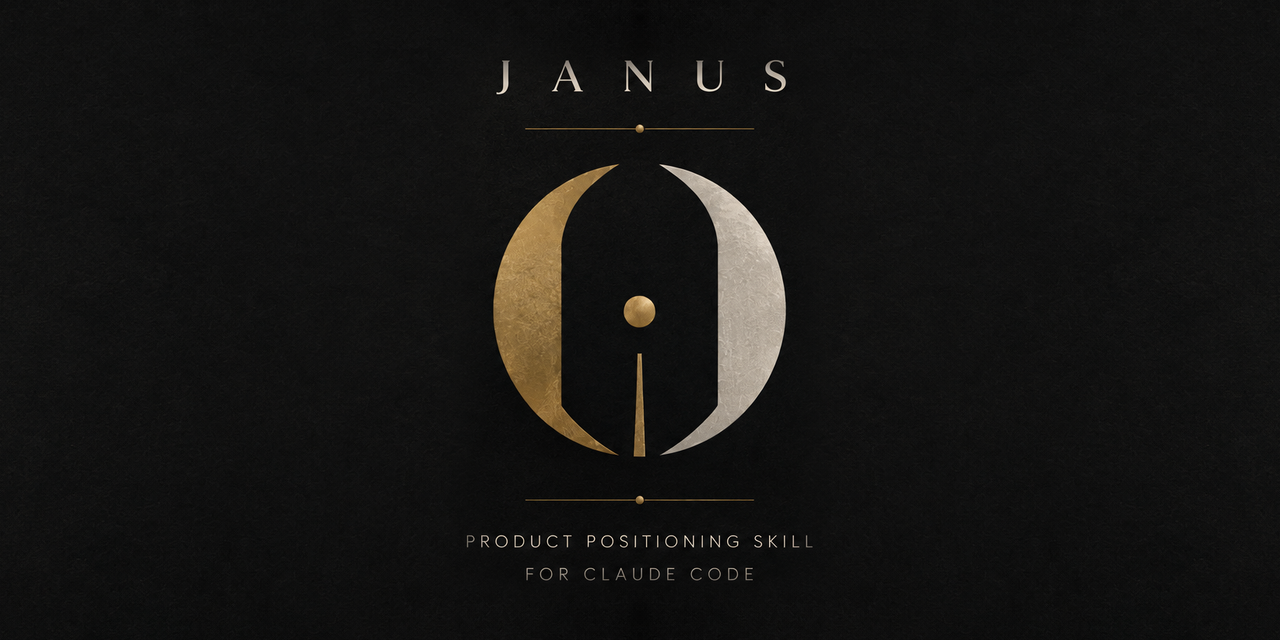
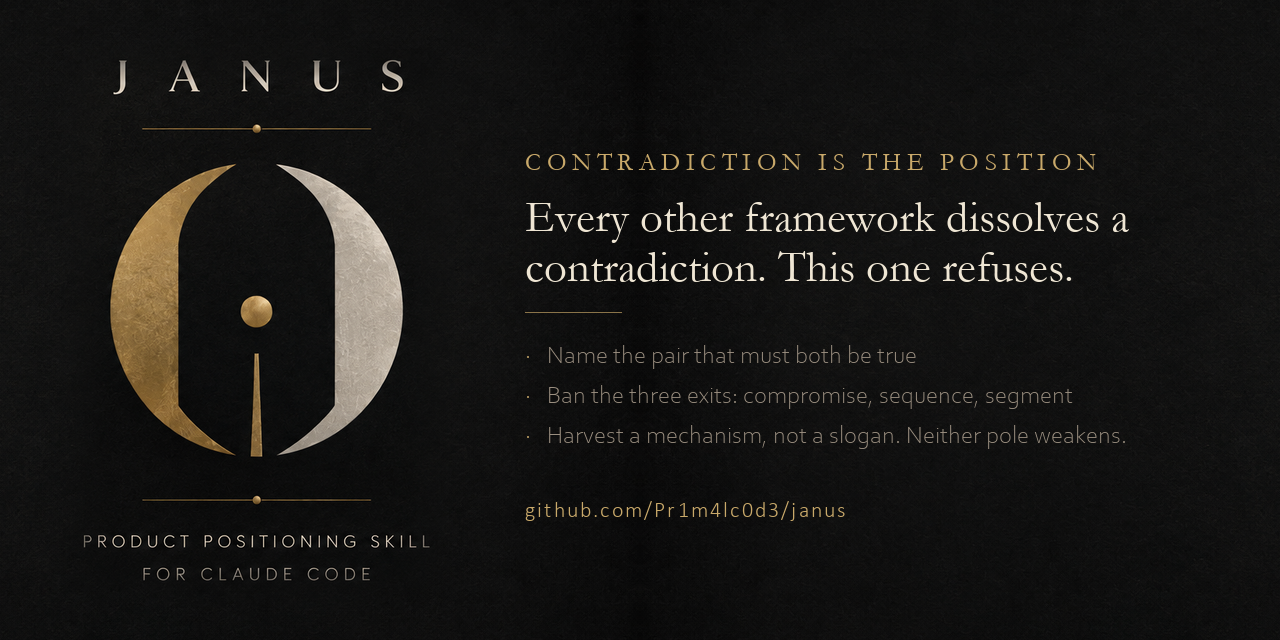
The OG stops centring the mark and spends the right side on copy
The source artwork is left-weighted on purpose. Centring the lockup threw away
the one place the card could say what the skill does.

Builder now places the lockup left and sets a kicker, headline, bullets and
footer in the cleared right column. The feathered bleed mask is unchanged; it
was already the right way to join the two textures.

Bullets come from steps 1, 2 and 4 of janus/SKILL.md. An earlier draft said
"what a rival must give up", which is Idea Forge Pro's moat gate, not this
skill, and Janus is explicitly not a pipeline stage.

Shared with the peitho repo. Same file in both; change one, change the other.

diff --git a/og/build-og.py b/og/build-og.py
@@ -1,44 +1,158 @@
 """Build the GitHub social-preview card.
 
 Recomposes the source artwork (3:2, lockup in the left third) onto GitHub's
-1280x640 social-preview ratio, centred, with the paper texture carried across
-the full frame so there is no seam.
+1280x640 social-preview ratio. The lockup stays LEFT, where the artwork puts it,
+and the empty right side carries copy explaining the skill. That space is the
+reason the artwork is left-weighted; it is not padding.
 
-Run from this folder:  python build-og.py
+The paper texture is carried across the full frame and the lockup is pasted
+through a feathered mask with bleed, so the two textures meet invisibly.
+
+Canonical implementation. The copy in each skill repo must stay identical; if you
+change one, change the other.
+
+Run from this folder:
+    python build-og.py --config peitho
+    python build-og.py --config janus
 """
+from __future__ import annotations
+
+import argparse
 from pathlib import Path
 
-from PIL import Image, ImageDraw, ImageFilter
+from PIL import Image, ImageDraw, ImageFilter, ImageFont
 
 HERE = Path(__file__).parent
-SRC = HERE / "source-artwork.png"
-OUT = HERE / "janus-og.png"
-W, H = 1280, 640                      # GitHub social-preview size
+W, H = 1280, 640                       # GitHub social-preview size
 
-im = Image.open(SRC).convert("RGB")
+FONTS = Path("C:/Windows/Fonts")
+F_DISPLAY = FONTS / "GARA.TTF"         # Garamond, for kicker and headline
+F_TEXT = FONTS / "corbell.ttf"         # Corbel Light, for the bullets
+F_MONOISH = FONTS / "calibril.ttf"     # Calibri Light: lining figures, so a URL sits on the baseline
 
-# ---- 1. canvas: real paper texture from his own empty right side, mirrored to 2:1
-tex = im.crop((896, 192, 1536, 832))                  # 640x640 of pure background
-canvas = Image.new("RGB", (W, H))
-canvas.paste(tex, (0, 0))
-canvas.paste(tex.transpose(Image.FLIP_LEFT_RIGHT), (640, 0))
+GOLD, CREAM, MUTED, RULE = "#C9A96A", "#EFE6D4", "#9C9081", "#8A7449"
 
-# ---- 2. his lockup, with bleed so the feather has texture to fade into
-BLEED = 40
-box = (134 - BLEED, 175 - BLEED, 577 + BLEED, 843 + BLEED)
-block = im.crop(box)
+# Per-skill config. box is the lockup's trimmed bounding box in the source
+# artwork, as (x0, y0, x1, y1). Find it with:
+#   magick source-artwork.png -fuzz 15% -trim -format '%wx%h+%X+%Y' info:
+CONFIGS = {
+    "peitho": dict(
+        out="peitho-og.png",
+        box=(107, 105, 729, 920),
+        kicker="PULL IS PARTICIPATION",
+        headline="A reader keeps reading because you gave them something to do.",
+        bullets=[
+            "Visible gaps, not withheld endings",
+            "Openings that earn the next paragraph",
+            "Every claim sourced. No invented detail.",
+        ],
+        footer="github.com/Pr1m4lc0d3/peitho",
+    ),
+    "janus": dict(
+        out="janus-og.png",
+        box=(134, 175, 577, 843),
+        kicker="CONTRADICTION IS THE POSITION",
+        headline="Every other framework dissolves a contradiction. This one refuses.",
+        # Straight from janus/SKILL.md steps 1, 2 and 4. Do NOT write "what a
+        # rival must give up" here: that is Idea Forge Pro's moat gate, a
+        # different thing, and Janus is explicitly not a pipeline stage.
+        bullets=[
+            "Name the pair that must both be true",
+            "Ban the three exits: compromise, sequence, segment",
+            "Harvest a mechanism, not a slogan. Neither pole weakens.",
+        ],
+        footer="github.com/Pr1m4lc0d3/janus",
+    ),
+}
 
-CONTENT_H = 520                                        # target height of the artwork itself
-scale = CONTENT_H / (843 - 175)
-bw, bh = (round(block.width * scale), round(block.height * scale))
-block = block.resize((bw, bh), Image.LANCZOS)
 
-# ---- 3. feathered alpha so the two textures meet invisibly
-f = round(BLEED * scale)
-mask = Image.new("L", (bw, bh), 0)
-ImageDraw.Draw(mask).rectangle([f, f, bw - f, bh - f], fill=255)
-mask = mask.filter(ImageFilter.GaussianBlur(f * 0.55))
+def tracked(draw, xy, text, font, fill, tracking=0.0):
+    """Draw text with letterspacing. Returns the advance width."""
+    x, y = xy
+    for ch in text:
+        draw.text((x, y), ch, font=font, fill=fill)
+        x += font.getlength(ch) + tracking
+    return x - xy[0]
 
-canvas.paste(block, ((W - bw) // 2, (H - bh) // 2), mask)
-canvas.save(OUT, optimize=True)
-print("wrote", OUT, canvas.size)
+
+def wrap(text, font, max_w):
+    lines, words, line = [], text.split(), ""
+    for word in words:
+        trial = f"{line} {word}".strip()
+        if font.getlength(trial) <= max_w or not line:
+            line = trial
+        else:
+            lines.append(line)
+            line = word
+    if line:
+        lines.append(line)
+    return lines
+
+
+def build(cfg, src_path):
+    im = Image.open(src_path).convert("RGB")
+
+    # 1. Canvas: real paper texture from the artwork's own empty right side,
+    #    mirrored to fill 2:1 without repeating a visible edge.
+    tex = im.crop((896, 192, 1536, 832))
+    canvas = Image.new("RGB", (W, H))
+    canvas.paste(tex, (0, 0))
+    canvas.paste(tex.transpose(Image.FLIP_LEFT_RIGHT), (640, 0))
+
+    # 2. The lockup, cropped with bleed so the feather has texture to fade into.
+    BLEED, CONTENT_H = 40, 520
+    x0, y0, x1, y1 = cfg["box"]
+    block = im.crop((x0 - BLEED, y0 - BLEED, x1 + BLEED, y1 + BLEED))
+    scale = CONTENT_H / (y1 - y0)
+    bw, bh = round(block.width * scale), round(block.height * scale)
+    block = block.resize((bw, bh), Image.LANCZOS)
+
+    # 3. Feathered alpha so the two textures meet invisibly.
+    f = round(BLEED * scale)
+    mask = Image.new("L", (bw, bh), 0)
+    ImageDraw.Draw(mask).rectangle([f, f, bw - f, bh - f], fill=255)
+    mask = mask.filter(ImageFilter.GaussianBlur(f * 0.55))
+
+    lock_x, lock_y = 84 - f, (H - bh) // 2
+    canvas.paste(block, (lock_x, lock_y), mask)
+
+    # 4. Right column, clear of the lockup's visible edge.
+    col_x = 84 + (bw - 2 * f) + 96
+    col_w = W - col_x - 84
+    if col_w < 260:
+        raise SystemExit(f"Right column is only {col_w}px. Narrow the lockup.")
+
+    d = ImageDraw.Draw(canvas)
+    y = 148
+
+    tracked(d, (col_x, y), cfg["kicker"], ImageFont.truetype(str(F_DISPLAY), 25), GOLD, 5.5)
+    y += 44
+
+    head_font = ImageFont.truetype(str(F_DISPLAY), 45)
+    for line in wrap(cfg["headline"], head_font, col_w):
+        d.text((col_x, y), line, font=head_font, fill=CREAM)
+        y += 50
+    y += 20
+
+    d.line([(col_x, y), (col_x + 96, y)], fill=RULE, width=1)
+    y += 32
+
+    bullet_font = ImageFont.truetype(str(F_TEXT), 25)
+    for b in cfg["bullets"]:
+        d.text((col_x, y), "\u00b7", font=bullet_font, fill=GOLD)
+        d.text((col_x + 22, y), b, font=bullet_font, fill=MUTED)
+        y += 40
+
+    tracked(d, (col_x, H - 140), cfg["footer"], ImageFont.truetype(str(F_MONOISH), 22), GOLD, 2.2)
+
+    out = HERE / cfg["out"]
+    canvas.save(out, optimize=True)
+    print(f"wrote {out} {canvas.size} right column {col_w}px")
+
+
+if __name__ == "__main__":
+    ap = argparse.ArgumentParser()
+    ap.add_argument("--config", required=True, choices=sorted(CONFIGS))
+    ap.add_argument("--source", default=str(HERE / "source-artwork.png"))
+    a = ap.parse_args()
+    build(CONFIGS[a.config], a.source)
